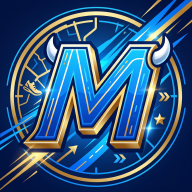
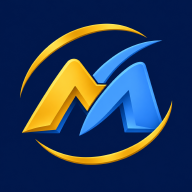
ícono nuevo: emblema M con órbitas (192, 512, 180 y maskable al 80 % sobre #061A4A); caché v28

diff --git a/sw.js b/sw.js
@@ -1,7 +1,7 @@
 // Service Worker de MiRun - garantiza funcionamiento sin internet
 // una vez que la app se cargo la primera vez.
 // IMPORTANTE: si se cambia mirun.html, css/app.css o js/app.js, subir el numero de CACHE_NAME.
-const CACHE_NAME = 'mirun-cache-v26';
+const CACHE_NAME = 'mirun-cache-v28';
 const FILES_TO_CACHE = [
   './',
   './index.html',

diff --git a/docs/PLAN.md b/docs/PLAN.md
@@ -24,6 +24,7 @@ Estado: ⬜ pendiente · 🟨 en curso · ✅ hecho.
 | 6d | Limpieza: redondear segundos de metas y peso de medidas guardados en unidades imperiales. Solo valores nuevos: ritmo a 0,1 s/km (a segundo entero el 38 % de los ritmos en min/mi se verían 1 s distintos), distancia de meta al metro, peso a 0,01 kg | ✅ 2026-11-05 (rama `prueba/pendientes`) |
 | 7 | **Ícono de la app**: mascota con la M (192, 512, maskable 512, 180 iPhone) | ✅ 2026-11-03 |
 | 7b | Ícono maskable para Android: ícono nuevo (M con cuernos) al 80 % sobre fondo #061a4a, no se corta en el círculo | ✅ 2026-11-04 |
+| 7c | Ícono nuevo: emblema M dorado y azul con órbitas sobre azul marino (192, 512, 180 y maskable al 80 % sobre #061A4A; ninguna punta fuera del círculo del 80 %) | ✅ 2026-11-09 (rama `prueba/icono`) |
 | 8 | **Modo bolsillo**: botón que bloquea los toques durante el GPS (la pantalla se sigue viendo); se desbloquea manteniendo presionado el candado 1,5 s | ✅ 2026-11-02 |
 | 9 | **Evolución**: pestaña "Evolución" (antes Cuerpo) con vistas Actividad / Cuerpo; minutos y distancia por semana o mes, ritmo promedio, comparación con el período anterior; filtros 4 semanas, 3 meses, 1 año, Todo | ✅ 2026-11-04 |
 | 9c | Evolución: mostrar mejor la comparación cuando el período anterior tiene muy poca actividad (ej. +555 %). Si el cambio pasa de +200 % se muestra "antes N min / N km" (`EVO_MAX_PCT`) | ✅ 2026-11-05 (rama `prueba/pendientes`) |

diff --git a/docs/CAMBIOS.md b/docs/CAMBIOS.md
@@ -5,6 +5,7 @@ Una línea por cambio, el más nuevo arriba.
 
 | Fecha | Cambio | Archivos | Costo aprox. |
 |---|---|---|---|
+| 2026-11-09 | Rama `prueba/icono`: ícono nuevo (emblema M dorado y azul con órbitas; original en `img/icono-original.png`), 192, 512, 180 y maskable al 80 % sobre #061A4A (el logo llega al 36 % del lado: nada sale del círculo del 80 %). Caché v26 → v28 (v27 es de `prueba/personajes`) | `img/*`, `sw.js`, `docs/*` | ~10k tokens |
 | 2026-11-08 | Rama `prueba/diseno`: caché v25 → v26 (ajustes 1 y 2). Unida a main y publicada | `sw.js` | ~3k tokens |
 | 2026-11-08 | Rama `prueba/diseno`, ajuste 3: PLAN, pendiente 21 (pasada de alineación) | `docs/*` | ~1k tokens |
 | 2026-11-08 | Rama `prueba/diseno`, ajuste 2: Bienvenida sin desplazar en 360x740 y 390x844 (mismo contenido; imagen hasta 24 % del alto, espacios y campos más justos; cabe también con mensaje de error) | `css/app.css`, `docs/*` | ~5k tokens |
